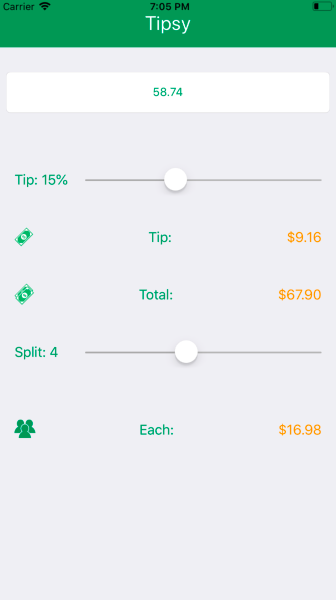
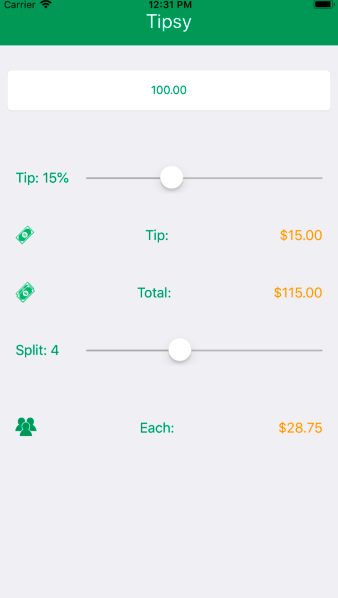
Fix splitAmount and upload new screenshot

diff --git a/TipCalculator/TipsyTipCalculator/Controller/ViewController.swift b/TipCalculator/TipsyTipCalculator/Controller/ViewController.swift
@@ -27,7 +27,6 @@ class ViewController: UIViewController {
     
     override func viewDidLoad() {
         super.viewDidLoad()
-
     }
 
 
@@ -39,6 +38,7 @@ class ViewController: UIViewController {
     @IBAction func tipPercengChange(_ sender: Any) {
         tipPercentValue()
         calculateTip()
+        calculateSplitAmount()
         self.dismissKeyboard()
     }
     

diff --git a/TipCalculator/TipsyTipCalculator/Model/TipCalcBrains.swift b/TipCalculator/TipsyTipCalculator/Model/TipCalcBrains.swift
@@ -46,7 +46,7 @@ class TipCalcBrains {
     }
     
     var totalAmount: Double {
-        return _totalAmount
+        return _billAmount + _tipAmount / 100
     }
     
     var splitAmount: Double {

diff --git a/README.md b/README.md
@@ -18,24 +18,22 @@ First of all I would like to highlight that I made the body of this project with
 
 #### We practised: 🏋
 
-- How to use **MVC**.
+- How to use MVC.
 
-- How to deal with **stack views** properly.
+- How to deal with stack views properly.
 
-- How to use **computed properties**.
+- How to use computed properties.
 
-- Impelementing **UISlider**. 
+- Impelementing UISlider. 
 
 #### What did I do on my own? 💪🏻
 
 
-- **DismissKeyboard** when it is needed. (Clicking anywhere or changing the tippercent)
+- DismissKeyboard when it is needed. (Clicking anywhere or changing the tippercent)
 
-- **Fixed** the relation between tippercent and tipamount. Now it is showing the right amount and the correct total amount. 
+- Implementing a function which makes the total bill amount splited into desired sections. 
 
-- **Implementing a function** which makes the total bill amount splited into desired sections. 
-
-- Searching for **online picture editors** which allow you to have your picture in different sizes for only one click and change 
+- Searching for online picture editors which allow you to have your picture in different sizes for only one click and change 
 color if needed. (My favorite one is [this][link2].)
 
 #### How to use it? 🧐
